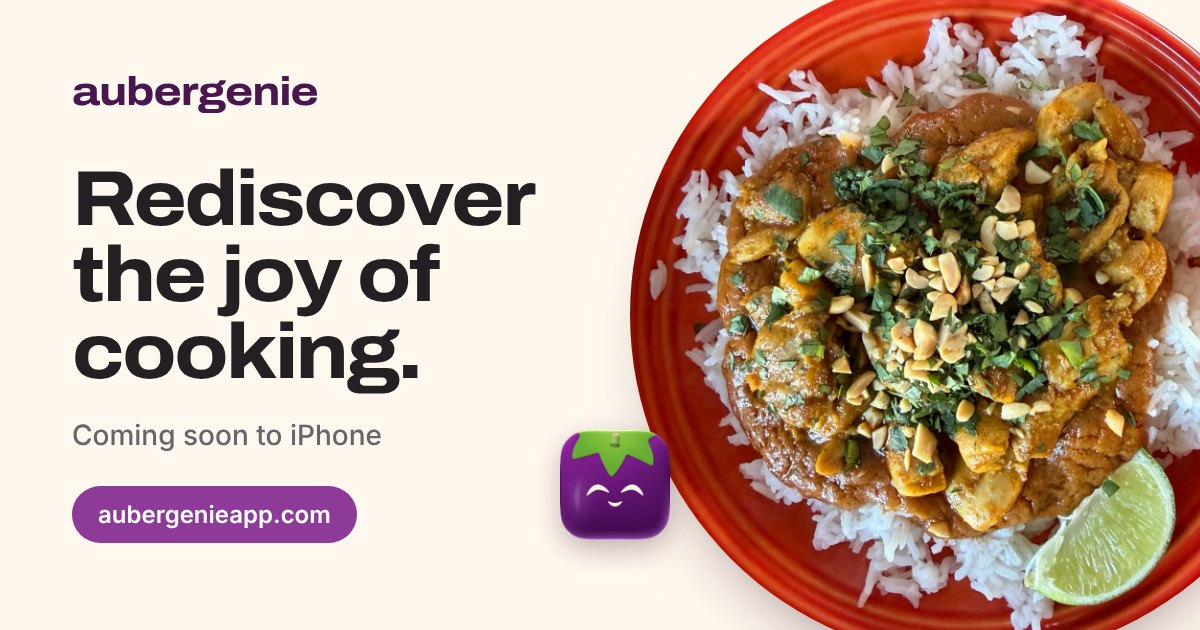
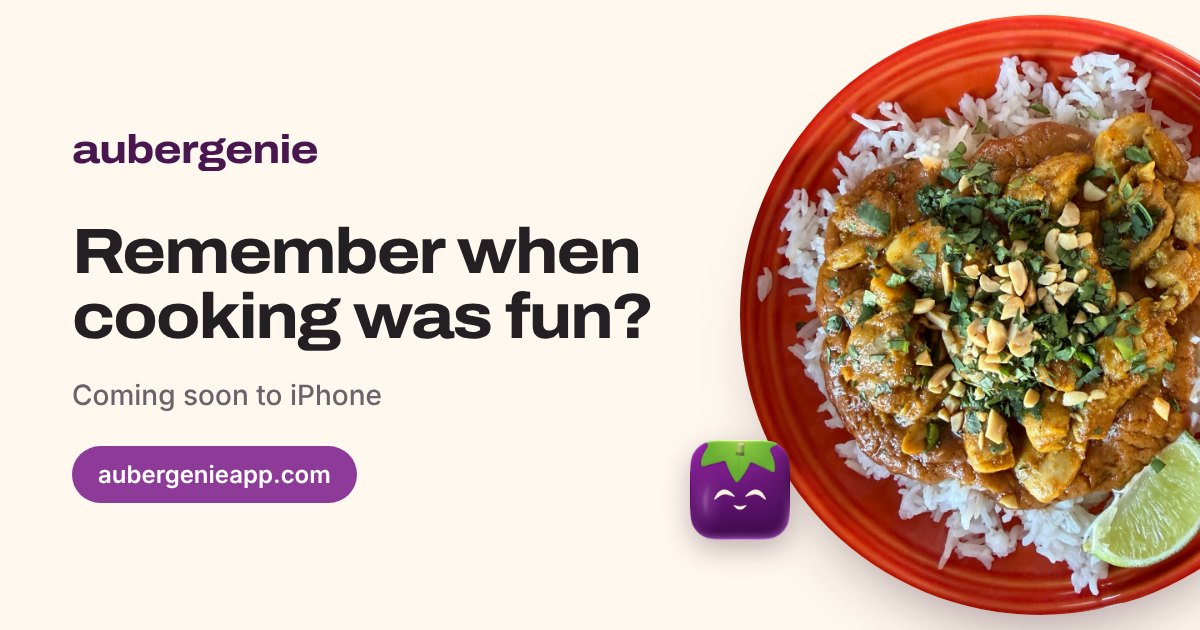
Share image: Remember when cooking was fun?
Claude-Session: https://claude.ai/code/session_015E1EZQp6uRvvg9XQNknF5J

diff --git a/privacy/choices/index.html b/privacy/choices/index.html
@@ -16,7 +16,7 @@
 <meta property="og:title" content="Privacy choices · Aubergenie">
 <meta property="og:description" content="Your privacy choices in Aubergenie: delete your account, turn off AI features, remove your data.">
 <meta property="og:url" content="https://aubergenieapp.com/privacy/choices/">
-<meta property="og:image" content="https://aubergenieapp.com/static/images/og.jpg?v=2">
+<meta property="og:image" content="https://aubergenieapp.com/static/images/og.jpg?v=3">
 <meta property="og:image:width" content="1200">
 <meta property="og:image:height" content="630">
 <meta property="og:image:alt" content="Aubergenie: Rediscover the joy of cooking. Coming soon to iPhone.">

diff --git a/index.html b/index.html
@@ -16,7 +16,7 @@
 <meta property="og:title" content="Remember when cooking was fun?">
 <meta property="og:description" content="Aubergenie is a little iPhone app I'm making to bring that back. Coming soon: leave your email to hear first.">
 <meta property="og:url" content="https://aubergenieapp.com/">
-<meta property="og:image" content="https://aubergenieapp.com/static/images/og.jpg?v=2">
+<meta property="og:image" content="https://aubergenieapp.com/static/images/og.jpg?v=3">
 <meta property="og:image:width" content="1200">
 <meta property="og:image:height" content="630">
 <meta property="og:image:alt" content="Aubergenie: Remember when cooking was fun? Coming soon to iPhone.">

diff --git a/privacy/index.html b/privacy/index.html
@@ -16,7 +16,7 @@
 <meta property="og:title" content="How Aubergenie handles your information · Aubergenie">
 <meta property="og:description" content="How the Aubergenie app for iPhone, iPad and Mac handles your information.">
 <meta property="og:url" content="https://aubergenieapp.com/privacy/">
-<meta property="og:image" content="https://aubergenieapp.com/static/images/og.jpg?v=2">
+<meta property="og:image" content="https://aubergenieapp.com/static/images/og.jpg?v=3">
 <meta property="og:image:width" content="1200">
 <meta property="og:image:height" content="630">
 <meta property="og:image:alt" content="Aubergenie: Rediscover the joy of cooking. Coming soon to iPhone.">

diff --git a/beta/index.html b/beta/index.html
@@ -16,7 +16,7 @@
 <meta property="og:title" content="Help me test Aubergenie">
 <meta property="og:description" content="A little iPhone app that makes cooking fun again. Try it before it launches and tell me what you think.">
 <meta property="og:url" content="https://aubergenieapp.com/beta/">
-<meta property="og:image" content="https://aubergenieapp.com/static/images/og.jpg?v=2">
+<meta property="og:image" content="https://aubergenieapp.com/static/images/og.jpg?v=3">
 <meta property="og:image:width" content="1200">
 <meta property="og:image:height" content="630">
 <meta property="og:image:alt" content="Aubergenie: Remember when cooking was fun? Coming soon to iPhone.">

diff --git a/404.html b/404.html
@@ -16,7 +16,7 @@
 <meta property="og:title" content="Page not found · Aubergenie">
 <meta property="og:description" content="That page isn&#x27;t on Aubergenie&#x27;s menu. The front page and support are a tap away.">
 <meta property="og:url" content="https://aubergenieapp.com/404.html">
-<meta property="og:image" content="https://aubergenieapp.com/static/images/og.jpg?v=2">
+<meta property="og:image" content="https://aubergenieapp.com/static/images/og.jpg?v=3">
 <meta property="og:image:width" content="1200">
 <meta property="og:image:height" content="630">
 <meta property="og:image:alt" content="Aubergenie: Rediscover the joy of cooking. Coming soon to iPhone.">

diff --git a/recipe/canonical-recipe/index.html b/recipe/canonical-recipe/index.html
@@ -16,7 +16,7 @@
 <meta property="og:title" content="Canonical Recipe 5.0 — the recipe contract · Aubergenie">
 <meta property="og:description" content="Canonical Recipe, the recipe contract.">
 <meta property="og:url" content="https://aubergenieapp.com/recipe/canonical-recipe/">
-<meta property="og:image" content="https://aubergenieapp.com/static/images/og.jpg?v=2">
+<meta property="og:image" content="https://aubergenieapp.com/static/images/og.jpg?v=3">
 <meta property="og:image:width" content="1200">
 <meta property="og:image:height" content="630">
 <meta property="og:image:alt" content="Aubergenie: Rediscover the joy of cooking. Coming soon to iPhone.">

diff --git a/recipe/index.html b/recipe/index.html
@@ -16,7 +16,7 @@
 <meta property="og:title" content="The Recipe File · Aubergenie">
 <meta property="og:description" content="A simple, portable .recipe file so recipes can move between people and apps.">
 <meta property="og:url" content="https://aubergenieapp.com/recipe/">
-<meta property="og:image" content="https://aubergenieapp.com/static/images/og.jpg?v=2">
+<meta property="og:image" content="https://aubergenieapp.com/static/images/og.jpg?v=3">
 <meta property="og:image:width" content="1200">
 <meta property="og:image:height" content="630">
 <meta property="og:image:alt" content="Aubergenie: Rediscover the joy of cooking. Coming soon to iPhone.">

diff --git a/support/index.html b/support/index.html
@@ -16,7 +16,7 @@
 <meta property="og:title" content="Support · Aubergenie">
 <meta property="og:description" content="Help with Aubergenie: contact, common questions, and deleting your account.">
 <meta property="og:url" content="https://aubergenieapp.com/support/">
-<meta property="og:image" content="https://aubergenieapp.com/static/images/og.jpg?v=2">
+<meta property="og:image" content="https://aubergenieapp.com/static/images/og.jpg?v=3">
 <meta property="og:image:width" content="1200">
 <meta property="og:image:height" content="630">
 <meta property="og:image:alt" content="Aubergenie: Rediscover the joy of cooking. Coming soon to iPhone.">

diff --git a/recipe/spec/index.html b/recipe/spec/index.html
@@ -16,7 +16,7 @@
 <meta property="og:title" content="Recipe File, version 1 · Aubergenie">
 <meta property="og:description" content="Recipe File v1 specification.">
 <meta property="og:url" content="https://aubergenieapp.com/recipe/spec/">
-<meta property="og:image" content="https://aubergenieapp.com/static/images/og.jpg?v=2">
+<meta property="og:image" content="https://aubergenieapp.com/static/images/og.jpg?v=3">
 <meta property="og:image:width" content="1200">
 <meta property="og:image:height" content="630">
 <meta property="og:image:alt" content="Aubergenie: Rediscover the joy of cooking. Coming soon to iPhone.">
